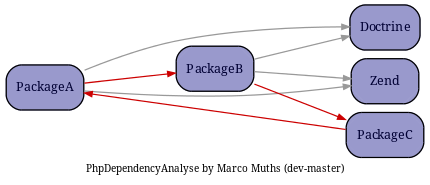
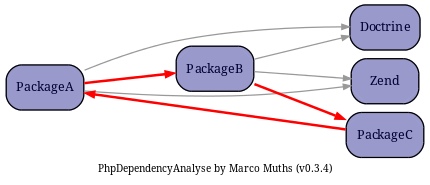
Improve color accessabilty and Increase max_nesting_level for huge projects

diff --git a/src/Layout/AbstractLayout.php b/src/Layout/AbstractLayout.php
@@ -29,10 +29,10 @@ abstract class AbstractLayout implements LayoutInterface
 {
     /** @var array */
     private $graph = array(
-        'rankdir'     => 'LR',
-        'ranksep'     => 1,
-        'nodesep'     => 0.1,
-        'fontsize'    => 8,
+        'rankdir'  => 'LR',
+        'ranksep'  => 1,
+        'nodesep'  => 0.1,
+        'fontsize' => 8,
     );
 
     /** @var array */
@@ -75,12 +75,16 @@ abstract class AbstractLayout implements LayoutInterface
 
     /** @var array */
     private $edgeInvalid = array(
-        'color' => '#FF0066',
+        'color'     => '#FF0000',
+        'style'     => 'bold',
+        'arrowsize' => 0.8,
     );
 
     /** @var array */
     private $edgeCycle = array(
-        'color' => '#CC0000',
+        'color'     => '#FF0099',
+        'style'     => 'bold',
+        'arrowsize' => 0.8,
     );
 
     /** @var array */

diff --git a/bin/phpda.php b/bin/phpda.php
@@ -25,7 +25,7 @@
 
 set_time_limit(0);
 ini_set('memory_limit', -1);
-ini_set('xdebug.max_nesting_level', 2000);
+ini_set('xdebug.max_nesting_level', 4000);
 
 if (!(@include_once __DIR__ . '/../vendor/autoload.php')
     && !(@include_once __DIR__ . '/../../../autoload.php')

diff --git a/src/Command/MessageInterface.php b/src/Command/MessageInterface.php
@@ -27,7 +27,7 @@ namespace PhpDA\Command;
 
 interface MessageInterface
 {
-    const VERSION = 'dev-master';
+    const VERSION = 'v0.3.4';
 
     const NAME = 'PhpDependencyAnalyse by Marco Muths';
 

diff --git a/CHANGELOG.md b/CHANGELOG.md
@@ -1,5 +1,10 @@
 # CHANGELOG
 
+## v0.3.4
+
+- Improve color accessabilty
+- Increase max_nesting_level for huge projects
+
 ## v0.3.3
 
 - Fix in Factory for missing dependency
